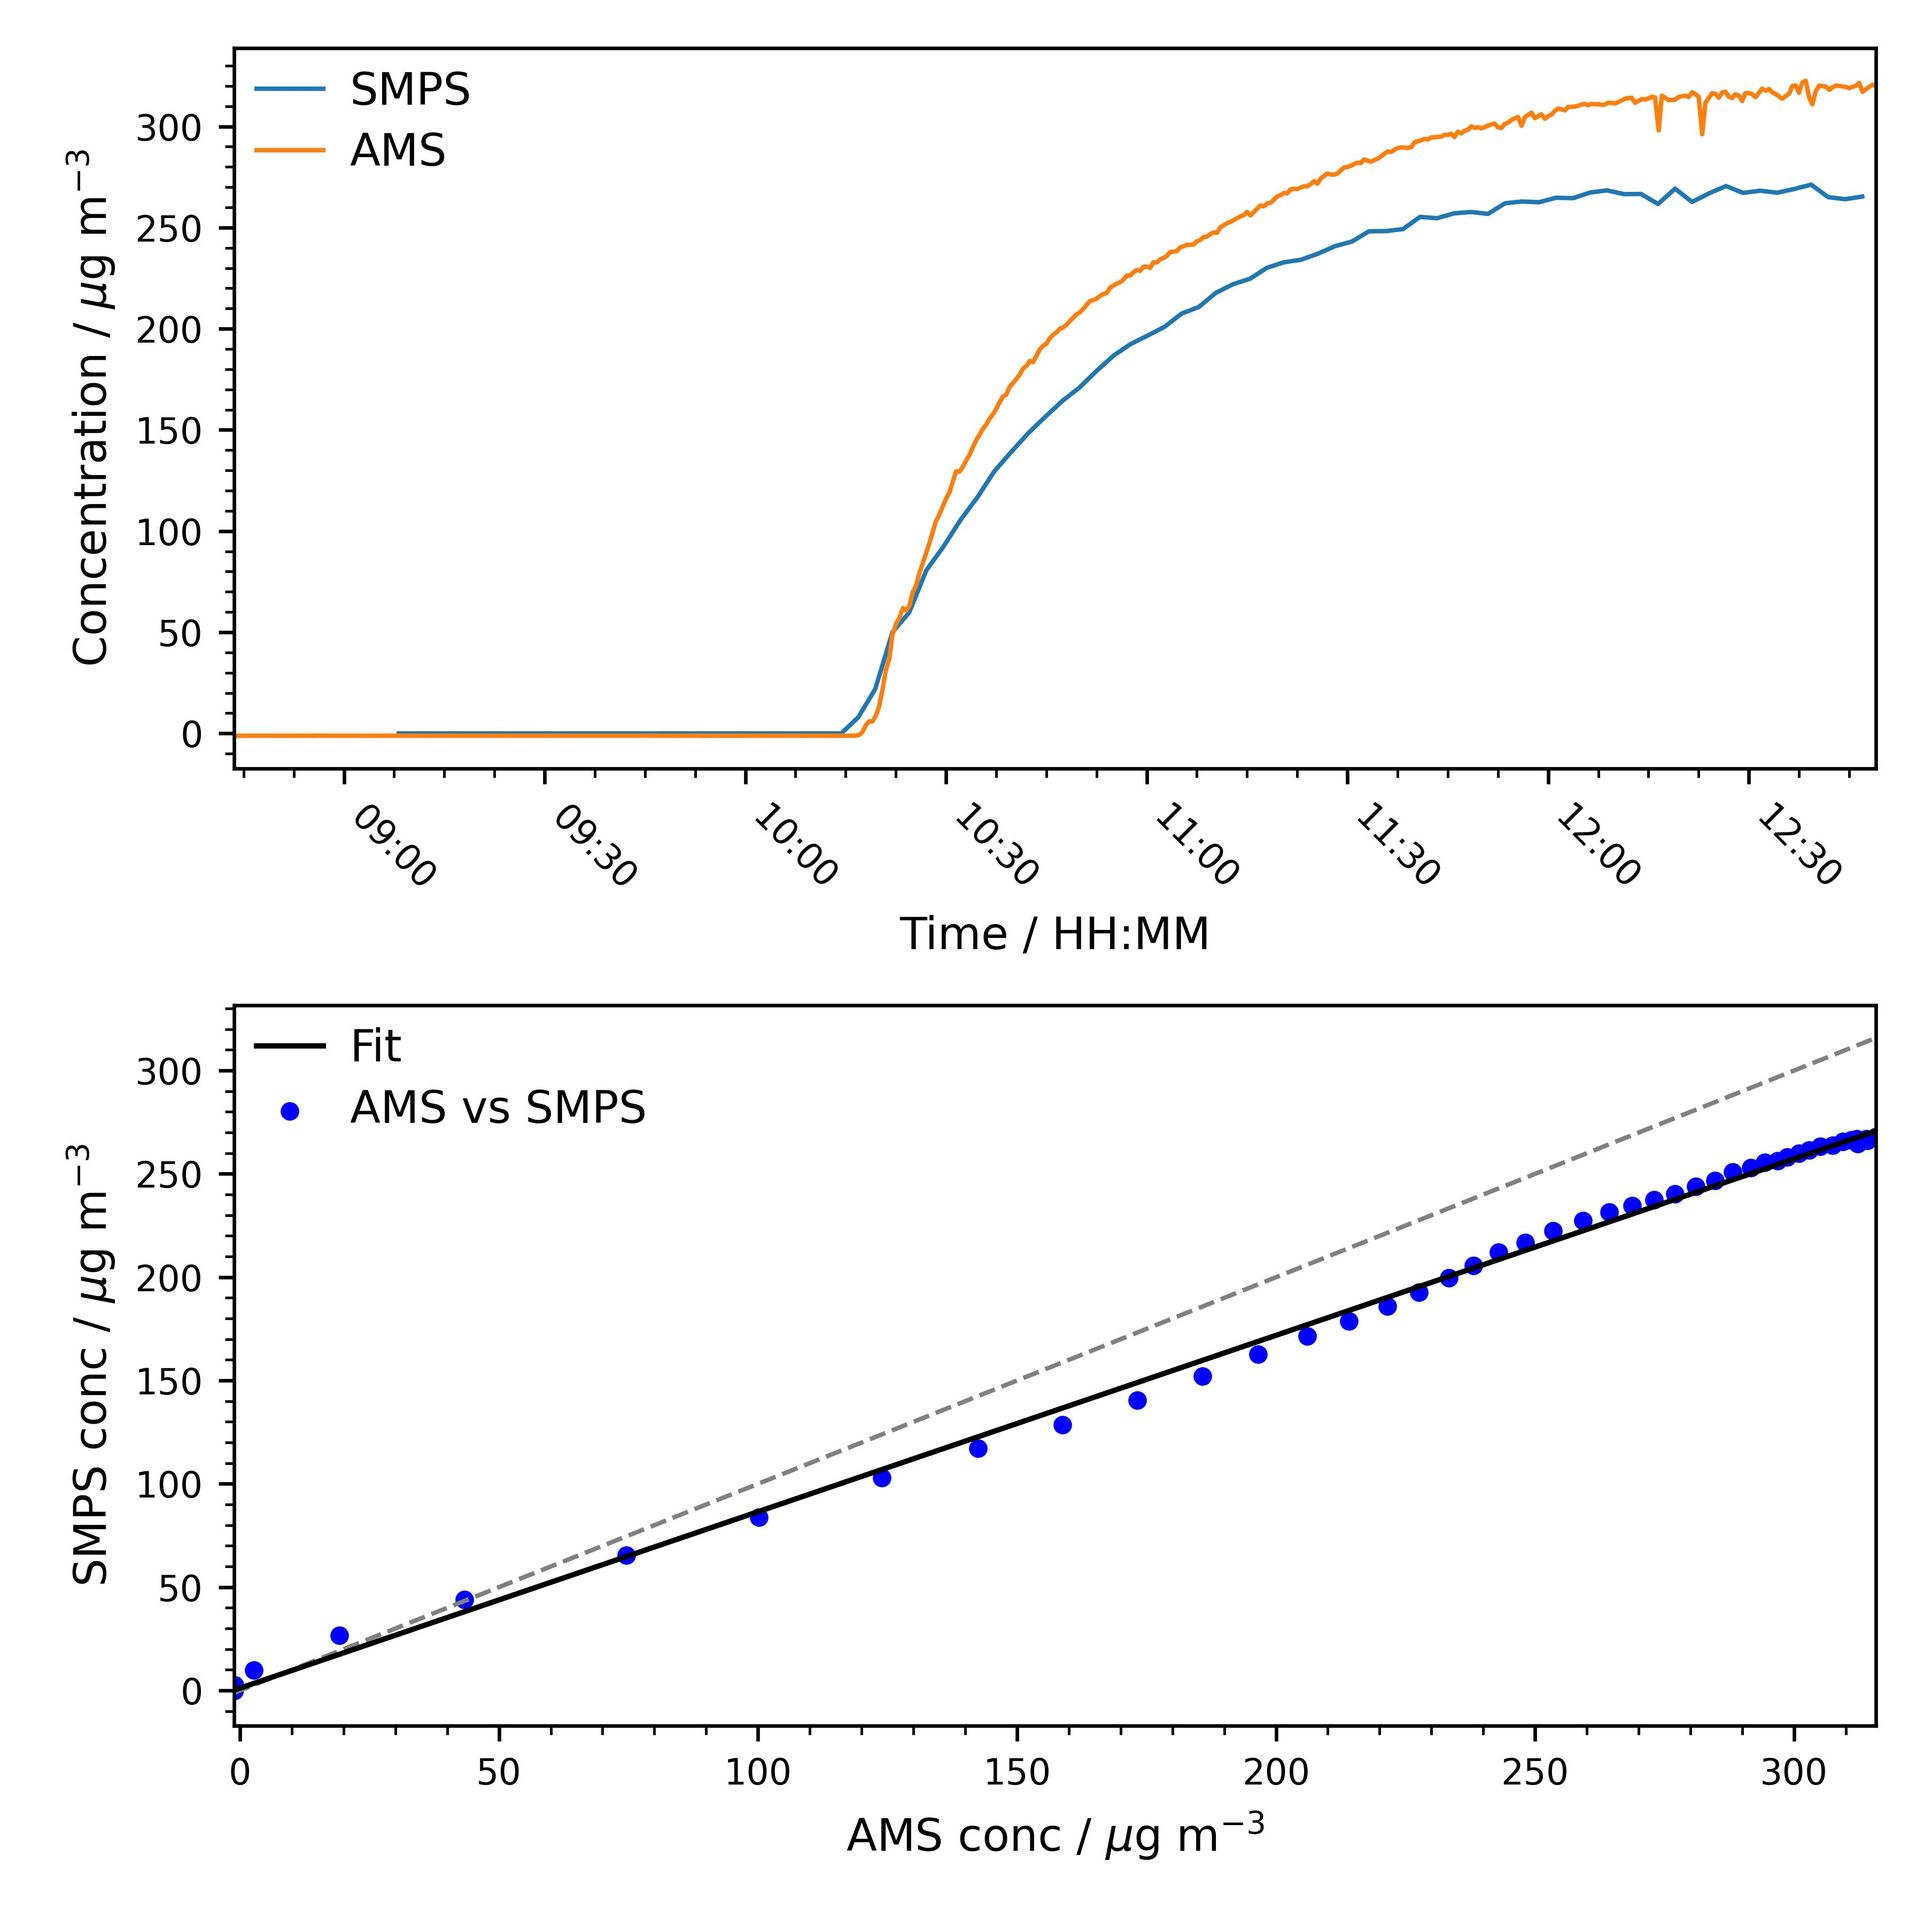
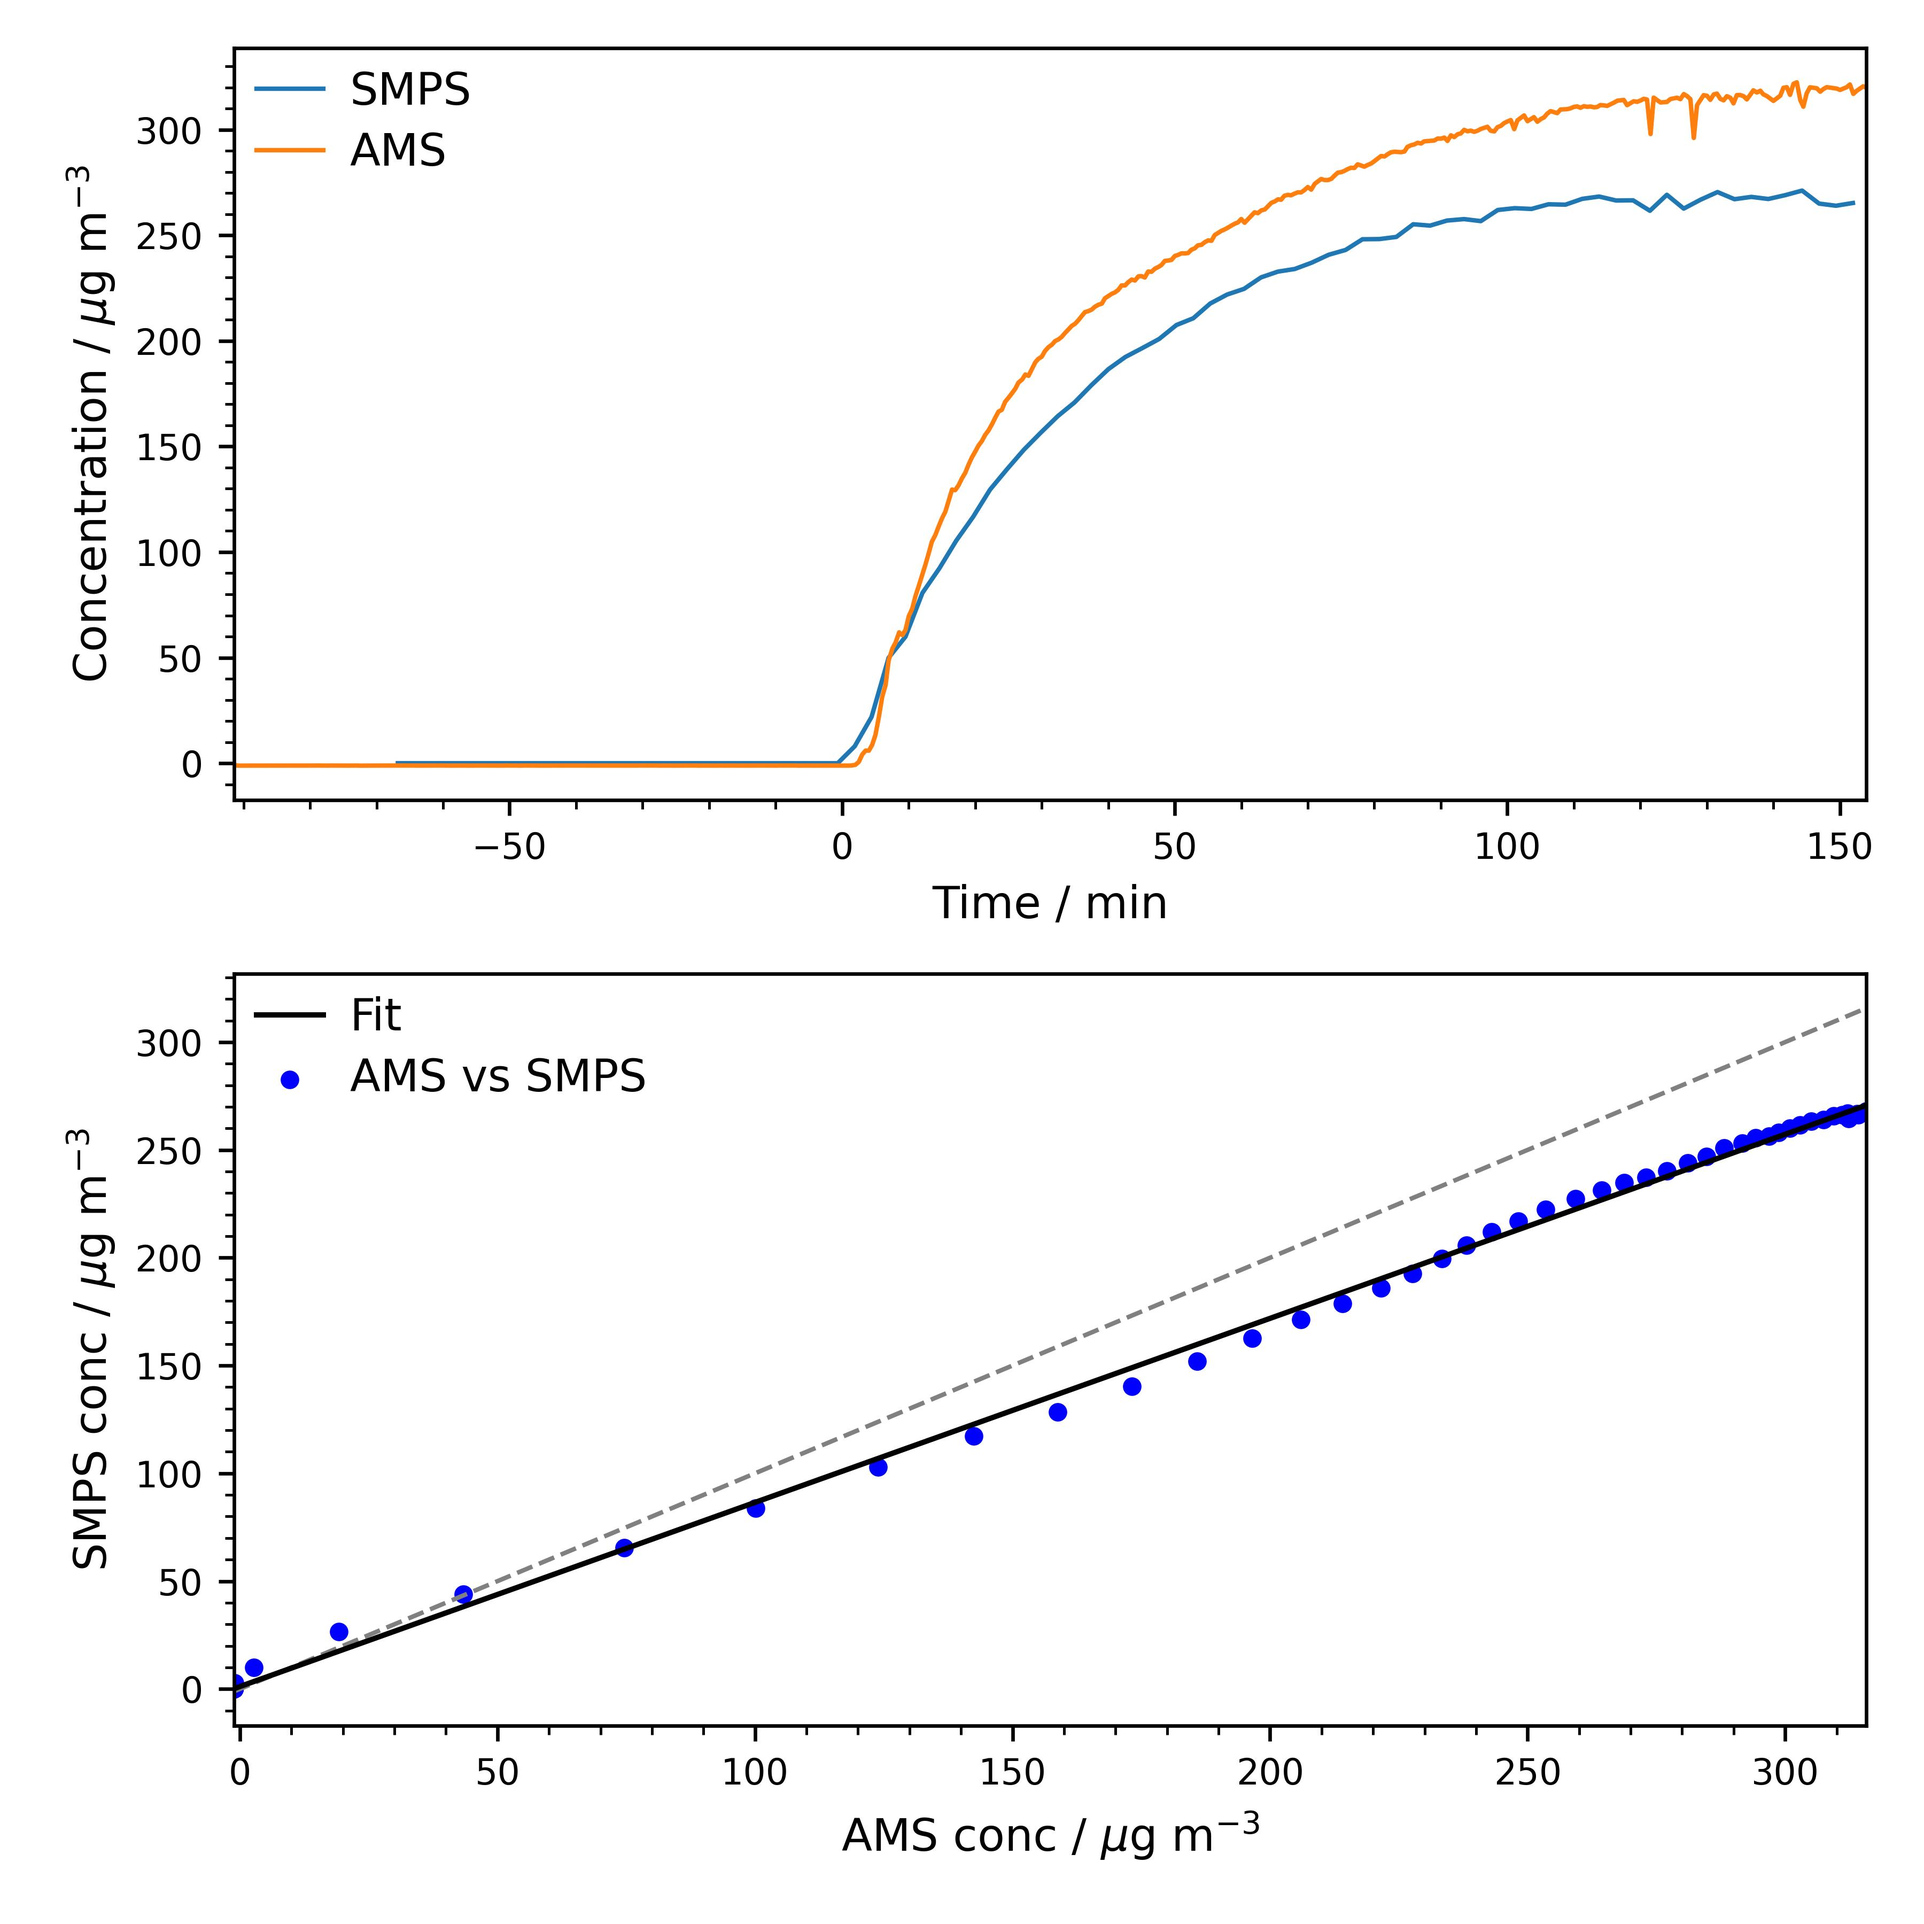
Update

diff --git a/plot_functions.py b/plot_functions.py
@@ -37,7 +37,7 @@ def plot_inset(ax, height, loc, bb2a, plot_width, xdata, ydata, width, bar, time
 
     return artist, inset_ax
 
-def plot_heatmap(ax, df, df_keys, time, bin_edges, cutpoint, normed, SASS):
+def plot_heatmap(ax, df, df_keys, time, bin_edges, cutpoint, normed, SASS, t_zero):
     
     if SASS:
         data = np.array([df['CorrectedSpectralDensity'][df['ScanNumber'] == 1].tolist()])
@@ -71,6 +71,9 @@ def plot_heatmap(ax, df, df_keys, time, bin_edges, cutpoint, normed, SASS):
         if normed == False:
             dlogDp = np.log10(bin_edges[1:])-np.log10(bin_edges[:-1])
             data=data/dlogDp
+        
+        if t_zero is not None:
+            time = (pd.to_datetime(time) - pd.to_datetime(t_zero)) / pd.Timedelta(minutes = 1)
             
         # Generate an extra time bin, which is needed for the meshgrid
         dt = time[1]-time[0]
@@ -90,31 +93,41 @@ def plot_heatmap(ax, df, df_keys, time, bin_edges, cutpoint, normed, SASS):
     if cutpoint != None:
         ax.hlines(cutpoint, new_time[0], new_time[-1], colors = 'white', linestyles = '--')
 
-    ax.xaxis.set_major_formatter(mdates.DateFormatter("%H:%M"))
-    ax.set_xticklabels(ax.get_xticklabels(), rotation=-45, ha="left")
-    ax.set_xlabel("Time / HH:MM")
-    plt.subplots_adjust(hspace=0.05)
+    if t_zero is not None:
+        ax.set_xlabel('Time / min')
+    else:
+        ax.xaxis.set_major_formatter(mdates.DateFormatter("%H:%M"))
+        ax.set_xticklabels(ax.get_xticklabels(), rotation=-45, ha="left")
+        ax.set_xlabel("Time / HH:MM")
+        plt.subplots_adjust(hspace=0.05)
         
     # Make the y-scal logarithmic and set a label
     ax.set_yscale("log")
     ax.set_ylabel("Dp / nm")
     return ax, p1
 
-def plot_total(ax, df, conc_key, clr, SASS):
-    if SASS:
-        total_conc = calc_total_conc(df, [111, 5490], 202.5, ['Size', 'CorrectedSpectralDensity'])
-        ax.plot(total_conc['Time'], total_conc['Total Concentration'], lw = 1, color = clr)
-        
-    else:
-        ax.plot(df['Time'], df[conc_key], lw = 1, color = clr)
+def plot_total(ax, df, conc_key, clr, SASS, t_zero):
+    if t_zero is not None:
+        time = (df['Time'] - pd.to_datetime(t_zero)) / pd.Timedelta(minutes = 1)
+        ax.plot(time, df[conc_key], lw = 1, color = clr)
 
-    ax.xaxis.set_major_formatter(mdates.DateFormatter("%H:%M"))
-    ax.set_xticklabels(ax.get_xticklabels(), rotation=-45, ha="left")
-    ax.set_xlabel("Time / HH:MM")
-    plt.subplots_adjust(hspace=0.05)
+        ax.set_xlabel('Time / min')
+
+    else:
+        if SASS:
+            total_conc = calc_total_conc(df, [111, 5490], 202.5, ['Size', 'CorrectedSpectralDensity'])
+            ax.plot(total_conc['Time'], total_conc['Total Concentration'], lw = 1, color = clr)
+            
+        else:
+            ax.plot(df['Time'], df[conc_key], lw = 1, color = clr)
+
+        ax.xaxis.set_major_formatter(mdates.DateFormatter("%H:%M"))
+        ax.set_xticklabels(ax.get_xticklabels(), rotation=-45, ha="left")
+        ax.set_xlabel("Time / HH:MM")
+        plt.subplots_adjust(hspace=0.05)
     return ax
 
-def plot_timeseries(fig, ax, df, df_keys, bin_edges, datatype, timestamps, normed, total, cutpoint, SASS):
+def plot_timeseries(fig, ax, df, df_keys, bin_edges, datatype, timestamps, normed, total, cutpoint, SASS, t_zero):
     
     start_time = pd.to_datetime(timestamps[0])
     end_time = pd.to_datetime(timestamps[1])
@@ -138,27 +151,27 @@ def plot_timeseries(fig, ax, df, df_keys, bin_edges, datatype, timestamps, norme
             new_df_number[key], new_df_mass[key] = filtered_number, filtered_mass
 
         if total != None:
-            ax1, p1 = plot_heatmap(ax[0][0], new_df_number, df_keys, filtered_time, bin_edges, cutpoint, normed, SASS)
-            ax2, p2 = plot_heatmap(ax[0][1], new_df_mass, df_keys, filtered_time, bin_edges, cutpoint, normed, SASS)
+            ax1, p1 = plot_heatmap(ax[0][0], new_df_number, df_keys, filtered_time, bin_edges, cutpoint, normed, SASS, t_zero)
+            ax2, p2 = plot_heatmap(ax[0][1], new_df_mass, df_keys, filtered_time, bin_edges, cutpoint, normed, SASS, t_zero)
 
             total_df_number = pd.DataFrame({'Time': filtered_time})
             conc = np.array(df_number[total])
             conc = pd.to_numeric(conc, errors='coerce')
             total_df_number[total] = conc[time_filter]
-            ax3 = plot_total(ax[1], total_df_number, total, 'r', SASS)
+            ax3 = plot_total(ax[1], total_df_number, total, 'r', SASS, t_zero)
 
             total_df_mass = pd.DataFrame({'Time': filtered_time})
             conc = np.array(df_mass[total])
             conc = pd.to_numeric(conc, errors='coerce')
             total_df_mass[total] = conc[time_filter]     
-            ax4 = plot_total(ax[1], total_df_mass, total, 'r', SASS)
+            ax4 = plot_total(ax[1], total_df_mass, total, 'r', SASS, t_zero)
 
             ax3.set_ylabel('Total number conc. / cm$^{-3}$')
             ax4.set_ylabel('Total mass conc. / $\mu$g m$^{-3}$')
 
         else:
-            ax1, p1 = plot_heatmap(ax[0], new_df_number, df_keys, filtered_time, bin_edges, cutpoint, normed, SASS)
-            ax2, p2 = plot_heatmap(ax[1], new_df_mass, df_keys, filtered_time, bin_edges, cutpoint, normed, SASS)
+            ax1, p1 = plot_heatmap(ax[0], new_df_number, df_keys, filtered_time, bin_edges, cutpoint, normed, SASS, t_zero)
+            ax2, p2 = plot_heatmap(ax[1], new_df_mass, df_keys, filtered_time, bin_edges, cutpoint, normed, SASS, t_zero)
 
         # Insert coloarbar and label it
         col1 = fig.colorbar(p1, ax=ax1)
@@ -184,20 +197,20 @@ def plot_timeseries(fig, ax, df, df_keys, bin_edges, datatype, timestamps, norme
             new_df[key] = filtered_conc
 
         if total != None:
-            ax1, p1 = plot_heatmap(ax[0], new_df, df_keys, filtered_time, bin_edges, cutpoint, normed, SASS)
+            ax1, p1 = plot_heatmap(ax[0], new_df, df_keys, filtered_time, bin_edges, cutpoint, normed, SASS, t_zero)
             
             if SASS:
-                ax2 = plot_total(ax[1], new_df, None, 'r', SASS)
+                ax2 = plot_total(ax[1], new_df, None, 'r', SASS, t_zero)
             else:
                 total_df = pd.DataFrame({'Time': filtered_time})
                 conc = np.array(df[total])
                 conc = pd.to_numeric(conc, errors='coerce')
                 total_df[total] = conc[time_filter]
                 
-                ax2 = plot_total(ax[1], total_df, total, 'r', SASS)
+                ax2 = plot_total(ax[1], total_df, total, 'r', SASS, t_zero)
 
         else:
-            ax1, p1 = plot_heatmap(ax, new_df, df_keys, filtered_time, bin_edges, cutpoint, normed, SASS)
+            ax1, p1 = plot_heatmap(ax, new_df, df_keys, filtered_time, bin_edges, cutpoint, normed, SASS, t_zero)
 
         # Insert coloarbar and label it
         col = fig.colorbar(p1, ax=ax1)
